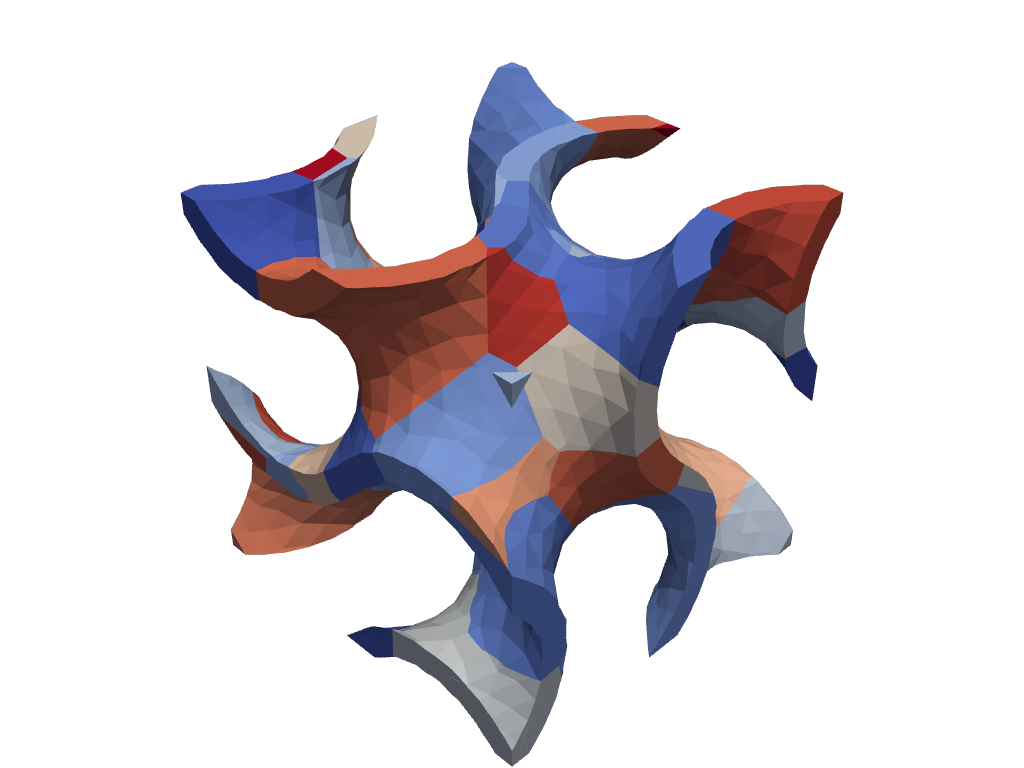
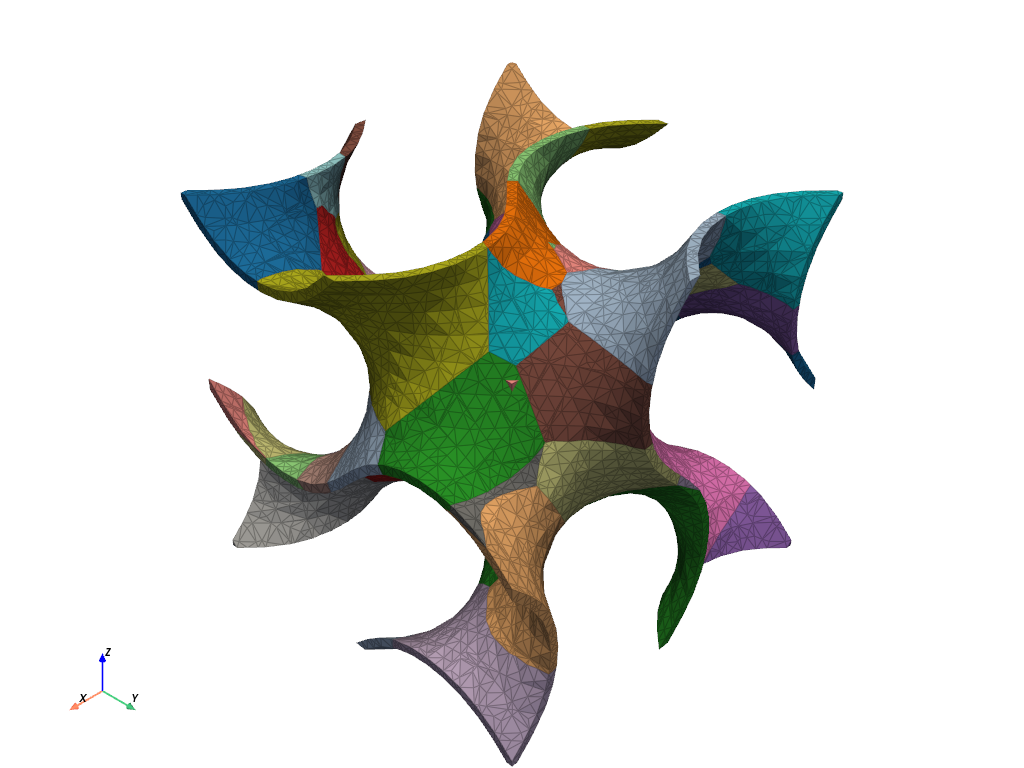
Align gyroid Voronoi example at origin
Remove the translation from the gyroid CAD generation and refresh the example images.

Changed region(s): [[0.1562, 0.0625, 0.8438, 1.0], [0.0938, 0.8438, 0.125, 0.9062], [0.0625, 0.9062, 0.0938, 0.9375]]

diff --git a/examples/3Doperations/voronoi_gyroid.py b/examples/3Doperations/voronoi_gyroid.py
@@ -20,7 +20,7 @@ gyroid = Tpms(
     surface_function=surface_functions.gyroid,
     offset=0.2,
 )
-gyroid = gyroid.generate_cad(type_part="sheet").translate((0.5, 0.5, 0.5))
+gyroid = gyroid.generate_cad(type_part="sheet")
 
 phases = []
 for polyhedron in polyhedra:
